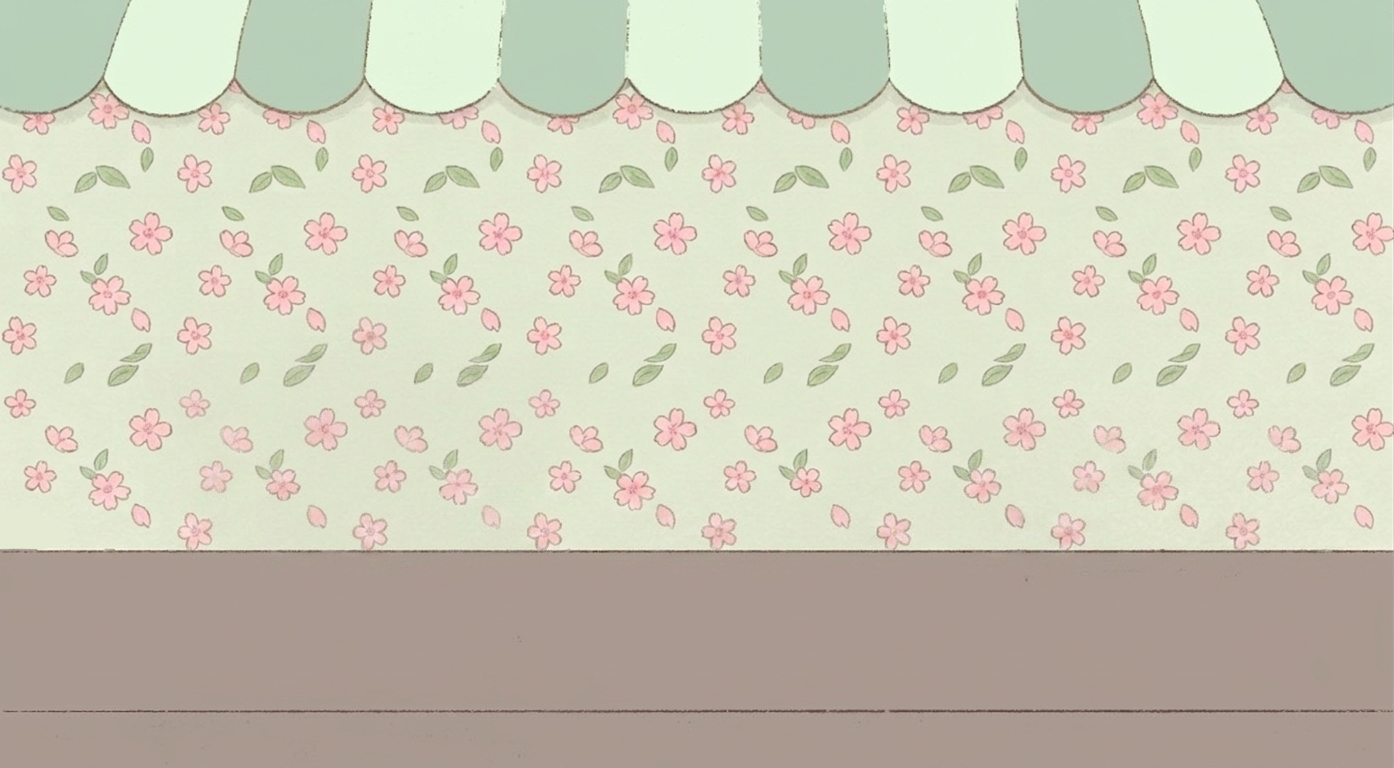
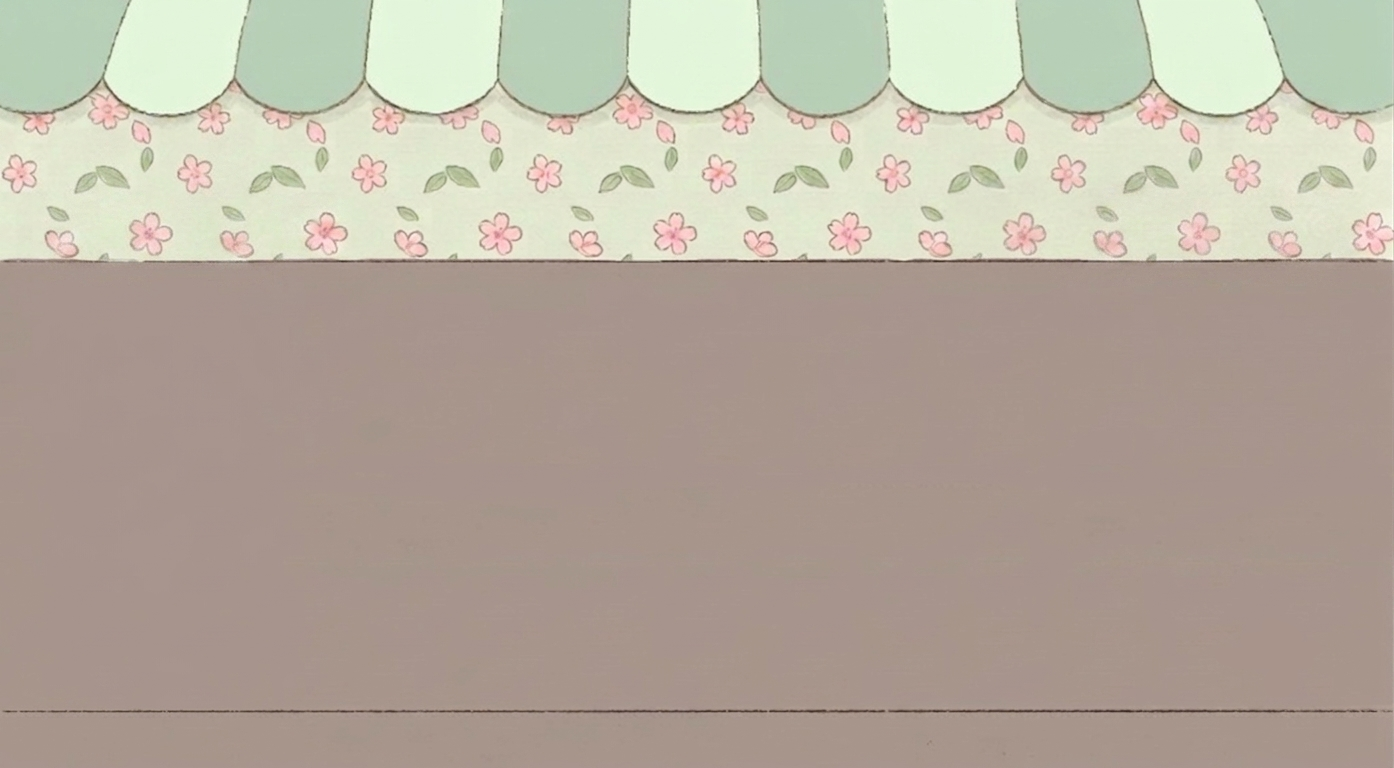
items in frame 3 (matcha mixing step) rearranged

diff --git a/src/components/MatchaMaking.css b/src/components/MatchaMaking.css
@@ -60,13 +60,38 @@
 /* Countertop items (heater, kettle, bowl, whisk, three matcha grade tins),
    positioned per-item via inline left/top/width/height in MatchaMaking.js
    (see STATIC_ITEMS/MOVABLE_ITEMS there for the box math) -- this class
-   only holds the properties every item shares. Static items (heater, the
-   three tins) stay non-interactive -- pointer-events: none, no focus. */
+   only holds the properties every item shares. The heater plate stays
+   non-interactive (pointer-events: none, no focus) -- the three tins are
+   selectable (see .station-item.selectable below) but not draggable, and
+   kettle/bowl/whisk are selectable and draggable (.station-item.movable). */
 .station-item {
   position: absolute;
   object-fit: contain;
   pointer-events: none;
   filter: drop-shadow(0 4px 6px rgba(0, 0, 0, 0.18));
+}
+
+/* The three matcha grade tins: D-pad/click-selectable so they get the same
+   white shape-hugging glow as everything else, but not draggable -- there's
+   nowhere for them to be picked up and put, unlike kettle/bowl/whisk, so
+   this skips the cursor/touch-action/drag transition properties .movable
+   below adds and only re-enables pointer-events + the focus glow. Same
+   zero-strength-drop-shadow-placeholder trick as .movable so the glow
+   transitions in smoothly instead of popping. */
+.station-item.selectable {
+  pointer-events: auto;
+  filter: drop-shadow(0 4px 6px rgba(0, 0, 0, 0.18)) drop-shadow(0 0 0 rgba(255, 255, 255, 0))
+    drop-shadow(0 0 0 rgba(255, 255, 255, 0));
+  transition: filter 0.15s ease, transform 0.15s ease;
+}
+
+.station-item.selectable:focus-visible {
+  outline: none;
+  box-shadow: none;
+  transform: scale(1.06);
+  filter: drop-shadow(0 4px 6px rgba(0, 0, 0, 0.18))
+    drop-shadow(0 0 6px rgba(255, 255, 255, 0.95))
+    drop-shadow(0 0 12px rgba(255, 255, 255, 0.75));
 }
 
 /* Movable items (kettle, bowl, whisk): draggable anywhere on the counter,

diff --git a/src/components/MatchaMaking.js b/src/components/MatchaMaking.js
@@ -14,14 +14,14 @@ import OrderReceiptButton from './OrderReceiptButton';
 // leftover transparent padding), so width/height here can use the image's
 // own aspect ratio without distortion.
 const STATIC_ITEMS = [
-  { key: 'cafe-grade', src: './CafeGrade.png', alt: 'Cafe grade matcha tin', left: 68, top: 55.18, width: 6, height: 16.82 },
-  { key: 'classic-grade', src: './ClassicGrade.png', alt: 'Classic grade matcha tin', left: 75, top: 55.02, width: 6, height: 16.98 },
-  { key: 'ceremonial-grade', src: './CeremonialGrade.png', alt: 'Ceremonial grade matcha tin', left: 82, top: 55.04, width: 6, height: 16.96 },
+  { key: 'cafe-grade', src: './CafeGrade.png', alt: 'Cafe grade matcha tin', left: 63.65, top: 25.66, width: 6.9, height: 19.34 },
+  { key: 'classic-grade', src: './ClassicGrade.png', alt: 'Classic grade matcha tin', left: 71.55, top: 25.47, width: 6.9, height: 19.53 },
+  { key: 'ceremonial-grade', src: './CeremonialGrade.png', alt: 'Ceremonial grade matcha tin', left: 79.45, top: 25.50, width: 6.9, height: 19.50 },
 ];
 
 // Heater plate: rendered separately from the other static items because it
 // carries two hotspots positioned relative to its own art (see below).
-const HEATER_BOX = { left: 3, top: 55.5, width: 25, height: 17.5 };
+const HEATER_BOX = { left: 3, top: 51.5, width: 25, height: 17.5 };
 
 // The heater's power button sits on the top surface, upper-left of the
 // plate, centered on the molded oval drawn into the art (image x 27-91,
@@ -52,7 +52,7 @@ const HEATER_BUTTON_BOX = heaterRelativeBox(33, 68.5, 85, 86.5, 337, 130);
 // width by default and animates open left-to-right when heaterOn flips
 // true (and closes the same way when it flips back off), so the color
 // progressively advances across the bar instead of appearing instantly.
-const TEMP_BAR_BOX = { left: 3, top: 76, width: 21, height: 3.4 };
+const TEMP_BAR_BOX = { left: 3, top: 72, width: 21, height: 3.4 };
 
 // Two tick marks in the gauge's white middle zone, positioned as a % of the
 // bar's own box (TEMP_BAR_BOX) since they're rendered as children of the
@@ -96,9 +96,9 @@ const RED_AT_MS =
 // down anywhere on the counter". Width/height stay fixed at their starting
 // size; only left/top change while dragging.
 const MOVABLE_ITEMS = [
-  { key: 'kettle', src: './kettle.png', alt: 'Pour-over kettle', left: 3.5, top: 30.1, width: 24, height: 31.4 },
-  { key: 'bowl', src: './Bowl.png', alt: 'Matcha mixing bowl', left: 38, top: 32.3, width: 24, height: 45.7 },
-  { key: 'whisk', src: './whisk.png', alt: 'Bamboo whisk', left: 91, top: 60.6, width: 6, height: 21.4 },
+  { key: 'kettle', src: './kettle.png', alt: 'Pour-over kettle', left: 3.5, top: 26.1, width: 24, height: 31.4 },
+  { key: 'bowl', src: './Bowl.png', alt: 'Matcha mixing bowl', left: 38, top: 33.8, width: 24, height: 45.7 },
+  { key: 'whisk', src: './whisk.png', alt: 'Bamboo whisk', left: 66, top: 47, width: 6, height: 21.4 },
 ];
 
 const MOVABLE_START = MOVABLE_ITEMS.reduce((acc, item) => {
@@ -343,7 +343,9 @@ const MatchaMaking = ({ activeStep, customerNumber, onNavigate, onAdvance }) => 
             key={item.key}
             src={item.src}
             alt={item.alt}
-            className="station-item"
+            className="station-item selectable"
+            data-focusable
+            tabIndex={0}
             style={{
               left: `${item.left}%`,
               top: `${item.top}%`,